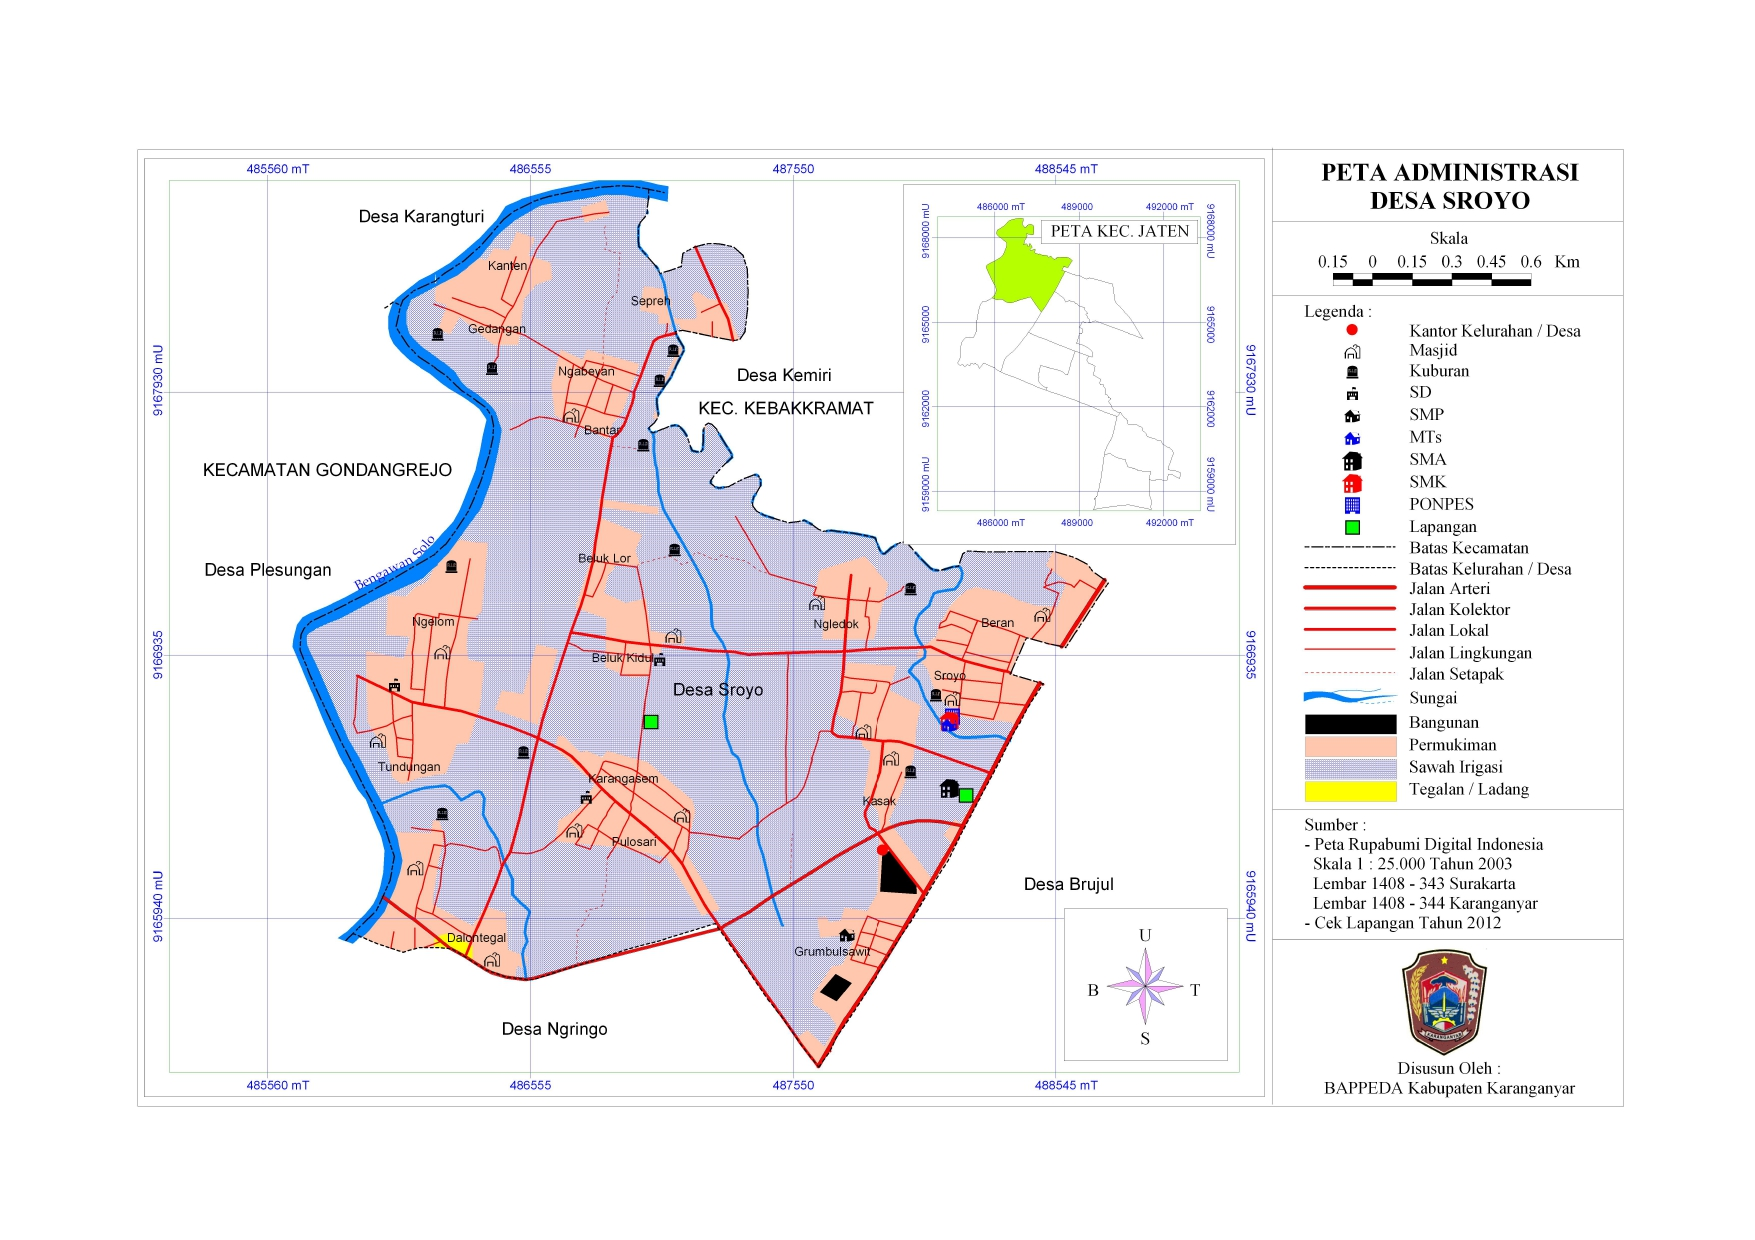
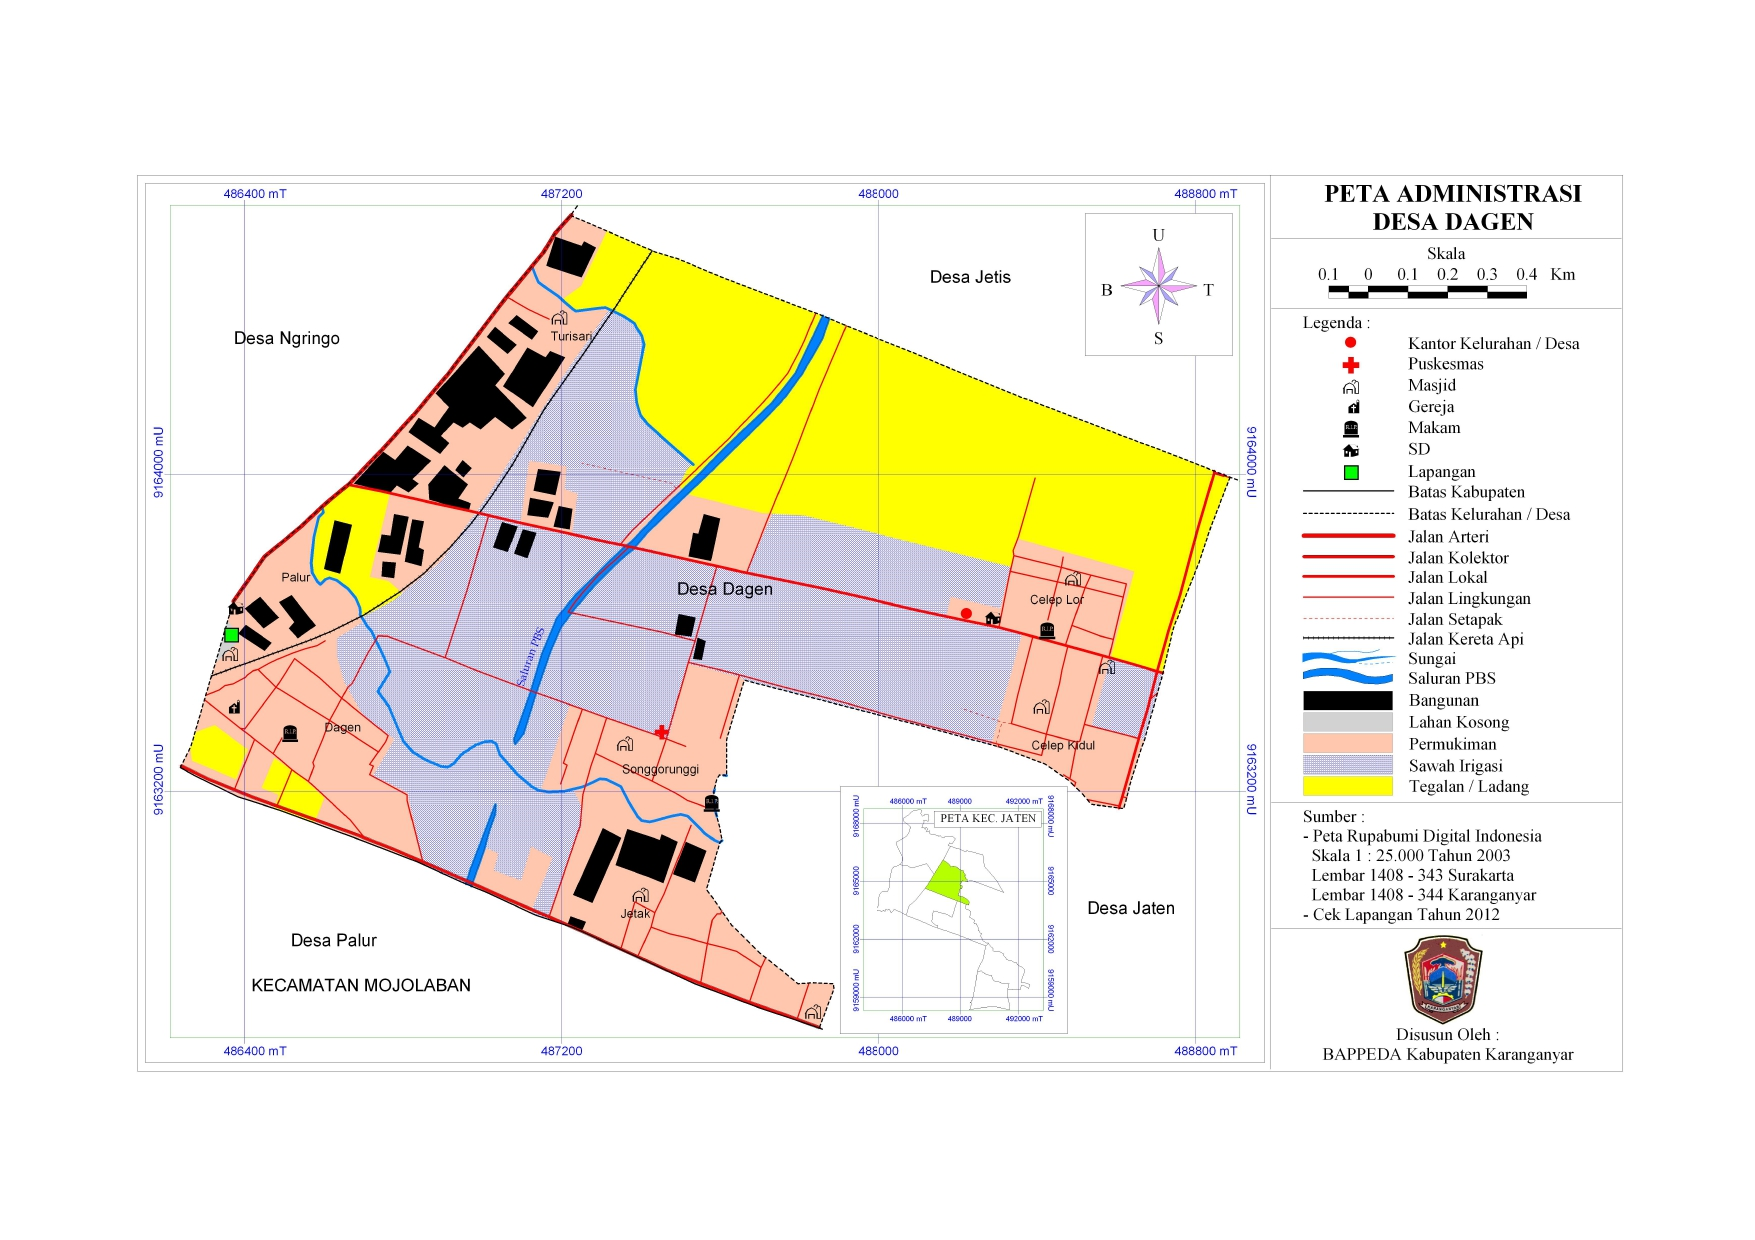
update data, profile (Dagen)

diff --git a/app/profil/page.tsx b/app/profil/page.tsx
@@ -14,13 +14,15 @@ const missions = [
 ];
 
 const demographics = [
-  ["01", "Jumlah Dusun", "6", "Dusun", "1. Kasak\n2. Pulosari\n3. Tundungan\n4. Kanten\n5. Ngledok\n6. Dagen"],
-  ["02", "Rukun Warga (RW)", "10", "RW", "Tersebar aktif di seluruh dusun"],
-  ["03", "Rukun Tetangga (RT)", "58", "RT", "Unit koordinasi warga paling hulu"],
-  ["04", "Jumlah Penduduk Total", "10.470", "Jiwa", "Data mutasi terintegrasi semester II 2024"],
-  ["05", "Penduduk Laki-laki", "5.188", "Jiwa", "49,55% dari total populasi desa"],
-  ["06", "Penduduk Perempuan", "5.282", "Jiwa", "50,45% (+94 jiwa di atas jumlah laki-laki)"],
-  ["07", "Kepadatan Penduduk", "2.277", "jiwa/km\u00B2", "Persebaran hunian asri & fasilitas umum"],
+  ["01", "Jumlah Dusun", "6", "Dusun", "Celep Kidul, Celep Lor, Dagen, Jetak, Songgorunggi, Turisari"],
+  ["02", "Rukun Warga (RW)", "13", "RW", "Data administratif tahun 2024"],
+  ["03", "Rukun Tetangga (RT)", "39", "RT", "Data administratif tahun 2024"],
+  ["04", "Jumlah Penduduk Total", "5.810", "Jiwa", "Data kependudukan tahun 2024"],
+  ["05", "Penduduk Laki-laki", "2.914", "Jiwa", "50,15% dari total penduduk Desa Dagen"],
+  ["06", "Penduduk Perempuan", "2.896", "Jiwa", "49,85% dari total penduduk Desa Dagen"],
+  ["07", "Persentase Penduduk Kecamatan Jaten", "7,09%", "Persen", "Proporsi penduduk Dagen terhadap penduduk Kecamatan Jaten"],
+  ["08", "Kepadatan Penduduk", "2.049", "jiwa/km²", "Data tahun 2024"],
+  ["09", "Rasio Jenis Kelamin", "100,62", "", "Laki-laki per 100 perempuan"],
 ];
 
 const staff = [
@@ -47,36 +49,49 @@ export default function ProfilPage() {
 
     <section className="profileBlock orgBlock"><header className="profileSectionHeading"><h2 className="ribbonTitle">Struktur Organisasi</h2></header><div className="orgCanvas" role="region" aria-label="Diagram struktur organisasi Desa Dagen" tabIndex={0}><Image src="/strutur-organisasi.png" alt="Bagan struktur organisasi Desa Dagen" width={876} height={626} /><p className="orgScrollHint">Geser diagram ke samping untuk melihat seluruh struktur.</p></div></section>
 
-    <section id="demografi" className="demography"><div className="demographyInner"><header className="profileSectionHeading"><h2>Wilayah & Demografi Kependudukan</h2><p>Ringkasan wilayah administratif dan gambaran penduduk Desa Dagen.</p></header><h3>Distribusi Berdasarkan Jenis Kelamin</h3><div className="genderCards"><article><p>Penduduk Laki-Laki</p><strong>2.914 <small>Jiwa</small></strong><div><span>Persentase Penduduk</span><b>50,15%</b></div><i><em /></i></article><article><p>Penduduk Perempuan</p><strong>2.896 <small>Jiwa</small></strong><div><span>Persentase Penduduk</span><b>49,85%</b></div><i><em /></i></article></div><h3 className="matrixTitle">Matriks Indikator Kependudukan</h3><div className="tableWrap" role="region" aria-label="Matriks indikator kependudukan, geser ke samping untuk melihat semua kolom" tabIndex={0}><table><thead><tr><th>No</th><th>Indikator Administratif / Demografi</th><th>Nilai Parameter</th><th>Satuan</th><th>Keterangan</th></tr></thead><tbody>{demographics.map((row) => <tr className={row[0] === "04" ? "populationTotal" : undefined} key={row[0]}>{row.map((cell) => <td key={cell}>{cell}</td>)}</tr>)}</tbody></table></div></div></section>
+    <section id="demografi" className="demography"><div className="demographyInner"><header className="profileSectionHeading"><h2>Wilayah & Demografi Kependudukan</h2><p>Desa Dagen terbagi menjadi 6 dusun, 13 RW, dan 39 RT. Pada tahun 2024, jumlah penduduk tercatat 5.810 jiwa dengan kepadatan 2.049 jiwa/km².</p></header><h3>Distribusi Berdasarkan Jenis Kelamin</h3><div className="genderCards"><article><p>Penduduk Laki-Laki</p><strong>2.914 <small>Jiwa</small></strong><div><span>Persentase Penduduk</span><b>50,15%</b></div><i><em style={{ width: "50.15%" }} /></i></article><article><p>Penduduk Perempuan</p><strong>2.896 <small>Jiwa</small></strong><div><span>Persentase Penduduk</span><b>49,85%</b></div><i><em style={{ width: "49.85%" }} /></i></article></div><h3 className="matrixTitle">Matriks Indikator Kependudukan</h3><div className="tableWrap" role="region" aria-label="Matriks indikator kependudukan, geser ke samping untuk melihat semua kolom" tabIndex={0}><table><thead><tr><th>No</th><th>Indikator Administratif / Demografi</th><th>Nilai Parameter</th><th>Satuan</th><th>Keterangan</th></tr></thead><tbody>{demographics.map((row) => <tr className={row[0] === "04" ? "populationTotal" : undefined} key={row[0]}>{row.map((cell, index) => <td key={`${row[0]}-${index}`}>{cell}</td>)}</tr>)}</tbody></table></div></div></section>
 
     <section id="layanan" className="healthSection">
-      <div className="healthSectionHeading"><h2>LAYANAN PUBLIK &amp; KESEHATAN</h2><p>Informasi fasilitas dan program kesehatan bagi warga Desa Dagen.</p></div><div className="healthHeading"><h2>Kesehatan dan Kesejahteraan Masyarakat</h2></div>
+      <div className="healthSectionHeading"><h2>LAYANAN PUBLIK &amp; KESEHATAN</h2><p>Ringkasan fasilitas kesehatan, layanan masyarakat, dan data sosial Desa Dagen tahun 2024.</p></div><div className="healthHeading"><h2>Kesehatan dan Kesejahteraan Masyarakat</h2></div>
       <div className="healthInner">
         <div className="healthKpis">
-          <article><div className="healthKpiLabel"><span>FASILITAS PKD</span></div><div className="healthKpiValue"><b>1</b><small>Unit</small></div><p>Poliklinik Kesehatan Desa Dagen aktif beroperasi</p></article>
-          <article><div className="healthKpiLabel"><span>APOTEK DESA</span></div><div className="healthKpiValue"><b>2</b><small>Unit</small></div><p>Distribusi farmasi & obat-obatan berizin</p></article>
-          <article><div className="healthKpiLabel"><span>POSYANDU AKTIF</span></div><div className="healthKpiValue"><b>22</b><small>Pos</small></div><p>Tersebar di seluruh kebayanan dan RW</p></article>
-          <article><div className="healthKpiLabel"><span>KADER KESEHATAN</span></div><div className="healthKpiValue"><b>79</b><small>Orang</small></div><p>61 Posyandu + 18 Posbindu PTM</p></article>
-          <article><div className="healthKpiLabel"><span>CAKUPAN KB AKTIF</span></div><div className="healthKpiValue gold"><b>66,13%</b></div><p>1.113 dari 1.683 Pasangan Usia Subur</p></article>
+          <article><div className="healthKpiLabel"><span>FASILITAS KESEHATAN</span></div><div className="healthKpiValue"><b>6</b><small>Unit</small></div><p>1 klinik, 1 puskesmas pembantu, 1 PKD, dan 3 apotek</p></article>
+          <article><div className="healthKpiLabel"><span>POSYANDU &amp; POSBINDU</span></div><div className="healthKpiValue"><b>13</b><small>Pos</small></div><p>6 balita, 5 lansia, 1 remaja, dan 1 Posbindu PTM</p></article>
+          <article><div className="healthKpiLabel"><span>KADER KESEHATAN</span></div><div className="healthKpiValue"><b>58</b><small>Orang</small></div><p>52 kader Posyandu dan 6 kader Posbindu PTM</p></article>
+          <article><div className="healthKpiLabel"><span>PASANGAN USIA SUBUR</span></div><div className="healthKpiValue"><b>954</b><small>PUS</small></div><p>Data program keluarga berencana tahun 2024</p></article>
+          <article><div className="healthKpiLabel"><span>AKSEPTOR KB</span></div><div className="healthKpiValue"><b>561</b><small>Orang</small></div><p>Akseptor KB tercatat pada data tahun 2024</p></article>
         </div>
         <div className="healthCards">
           <article className="posyanduCard">
-            <header><div><h3>Layanan Posyandu & Skrining Komunitas</h3><p>22 Pos Terpadu & 79 Kader Terlatih</p></div><span className="healthTag">Total 22 Pos</span></header>
+            <header><div><h3>Fasilitas Kesehatan</h3><p>Sarana pelayanan kesehatan yang tercatat di wilayah Dagen pada tahun 2024.</p></div><span className="healthTag">Total 6 Unit</span></header>
             <div className="posyanduGrid">
-              <div><small>POSYANDU BALITA</small><strong>7 Pos</strong><p>Pemantauan gizi & imunisasi</p></div>
-              <div><small>POSYANDU LANSIA</small><strong>7 Pos</strong><p>Cek tensi, gula & senam lansia</p></div>
-              <div><small>POSYANDU REMAJA</small><strong>4 Pos</strong><p>Konseling gizi & reproduksi</p></div>
-              <div><small>POSBINDU PTM</small><strong>4 Pos</strong><p>Skrining penyakit tidak menular</p></div>
+              <div><small>KLINIK PRATAMA</small><strong>1 Unit</strong></div>
+              <div><small>PUSKESMAS PEMBANTU</small><strong>1 Unit</strong></div>
+              <div><small>POLIKLINIK KESEHATAN DESA / PKD</small><strong>1 Unit</strong></div>
+              <div><small>APOTEK</small><strong>3 Unit</strong></div>
             </div>
-            <div className="staffSummary"><strong>Distribusi Tenaga Kader Desa Dagen:</strong><span>61 Kader Posyandu</span><span>18 Kader Posbindu PTM</span></div>
+            <div className="staffSummary"><strong>Fasilitas sesuai data kesehatan Desa Dagen tahun 2024.</strong></div>
           </article>
           <article className="kbCard">
-            <header><div><h3>Program Keluarga Berencana</h3><p>Keluarga Berkualitas & Sejahtera</p></div><span className="healthTag goldTag">66,13% Capaian</span></header>
-            <div className="kbOverview"><div><small>PASANGAN USIA SUBUR (PUS)</small><strong>1.683</strong></div><div><small>AKSEPTOR KB AKTIF</small><strong>1.113</strong></div></div>
-            <div className="kbProgress"><span style={{ width: "66.13%" }} /></div>
-            <div className="kbProgressLabels"><span>0 Aseptor</span><strong>66,13% Pasangan Terdaftar</strong><span>Target 100%</span></div>
-            <div className="kbMethod"><strong>Metode Pelayanan Kontrasepsi:</strong><p>Pelayanan suntik, pil KB, IUD, implan, dan MOW difasilitasi melalui kemitraan bidan desa, PKD, serta rujukan Puskesmas Jaten I secara teratur tiap pekan.</p></div>
-            <small className="kbSource">Sumber: Data KB BKKBN & Register Kader Desa Dagen 2024</small>
+            <header><div><h3>Posyandu & Keluarga Berencana</h3><p>Layanan kesehatan masyarakat dan program keluarga berencana tahun 2024.</p></div><span className="healthTag goldTag">561 Akseptor KB</span></header>
+            <div className="posyanduGrid">
+              <div><small>POSYANDU BALITA</small><strong>6 Posyandu</strong></div>
+              <div><small>POSYANDU LANSIA</small><strong>5 Posyandu</strong></div>
+              <div><small>POSYANDU REMAJA</small><strong>1 Posyandu</strong></div>
+              <div><small>POSBINDU PTM</small><strong>1 Posbindu</strong></div>
+            </div>
+            <div className="staffSummary"><strong>Tenaga kader:</strong><span>52 kader Posyandu</span><span>6 kader Posbindu PTM</span></div>
+            <div className="kbOverview"><div><small>PASANGAN USIA SUBUR (PUS)</small><strong>954</strong></div><div><small>AKSEPTOR KB</small><strong>561</strong></div></div>
+            <small className="kbSource">Sumber: Data kesehatan dan KB Desa Dagen 2024</small>
+          </article>
+          <article className="kbCard">
+            <header><div><h3>Kondisi Sosial</h3><p>Data penyandang disabilitas di Dagen pada tahun 2024.</p></div></header>
+            <div className="posyanduGrid">
+              <div><small>TUNA DAKSA</small><strong>2 Orang</strong></div>
+              <div><small>CACAT GANDA</small><strong>3 Orang</strong></div>
+            </div>
+            <p>Jumlah tuna netra, tuna rungu, tuna grahita, dan tuna laras tidak tercatat pada tabel sumber.</p>
+            <small className="kbSource">Sumber: Data sosial Desa Dagen 2024</small>
           </article>
         </div>
       </div>

diff --git a/app/globals.css b/app/globals.css
@@ -862,6 +862,16 @@ footer em { color: #d6d3d1; font-size: 12px; font-style: normal; font-weight: 40
 .figmaProfile .historyHero > img { object-position: center 58%; }
 .figmaProfile .historyShade { background: linear-gradient(180deg, rgba(72, 6, 8, .08), rgba(72, 6, 8, .88)); }
 .figmaProfile .historyCard p { background: rgba(75, 8, 8, .68); border: 1px solid #fff3; }
+/* Wider history panel, justified copy, and a background that grows with its text. */
+.figmaProfile .historyHero { display: grid; height: auto; min-height: 480px; overflow: hidden; padding: clamp(48px, 7vw, 80px) clamp(20px, 4vw, 48px); place-items: center; }
+.figmaProfile .historyCard { inset: auto; margin: 0 auto; max-width: 1280px; padding: 0; position: relative; width: 100%; }
+.figmaProfile .historyCard h1 { font-size: clamp(32px, 5vw, 58px); left: auto; line-height: 1.2; margin: 0 auto 24px; position: static; text-align: center; transform: none; width: 100%; }
+.figmaProfile .historyCard p { background: rgba(77, 2, 2, .72); border-radius: 20px; font-size: clamp(16px, 1.6vw, 22px); height: auto; left: auto; line-height: 1.75; margin: 0 auto; max-height: none; max-width: none; overflow: visible; padding: clamp(20px, 4vw, 40px); position: static; text-align: justify; transform: none; width: 100%; }
+@media (max-width: 800px) {
+  .figmaProfile .historyHero { min-height: 0; padding: 40px 16px; }
+  .figmaProfile .historyCard h1 { font-size: clamp(28px, 8vw, 38px); margin-bottom: 18px; }
+  .figmaProfile .historyCard p { font-size: 14px; line-height: 1.65; padding: 20px; }
+}
 .figmaProfile footer { padding: 56px max(64px, calc((100vw - 1152px) / 2)) 24px; }
 .figmaProfile .footerTop,
 .figmaProfile .footerBottom { max-width: none; padding-left: 0; padding-right: 0; }
